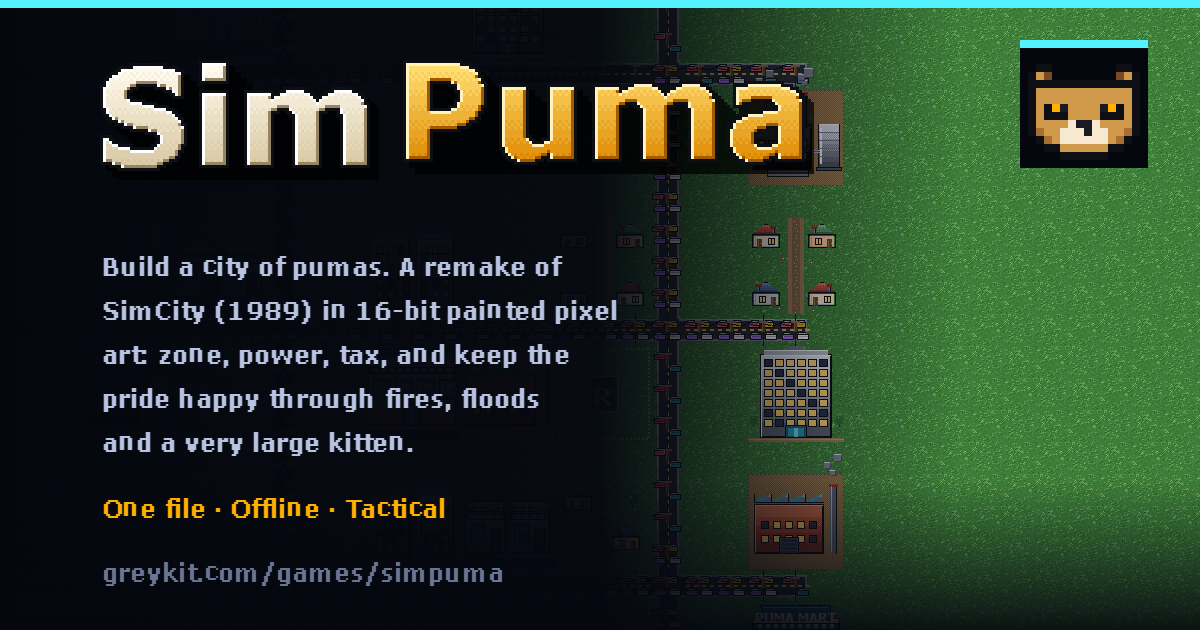
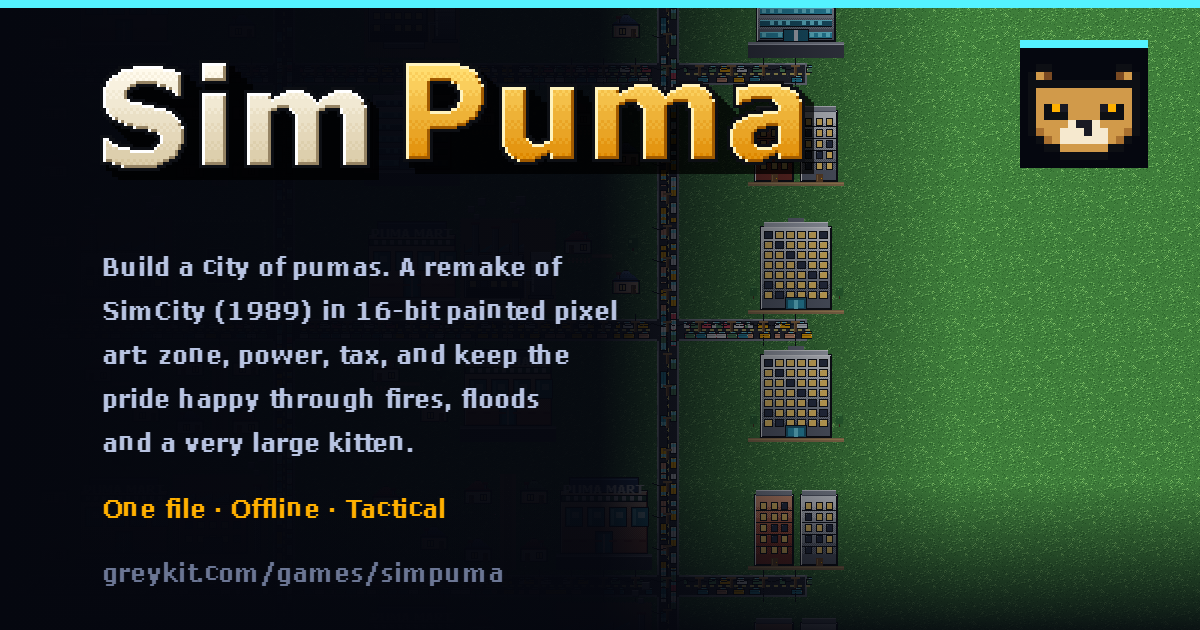
Traffic moves, and jams
Cars drive the roads in both lanes, keeping to the right: sixteen
painted frames a lane and a load, picked by the road's direction and
how busy it is. Light traffic moves two pixels a frame, busy traffic
one, and a jam creeps bumper to bumper with its brake lights on and
stalls now and then. A zone adds less to the roads each month, so a
town shows a mix of light, busy and jammed streets rather than every
road at its limit.

diff --git a/index.html b/index.html
@@ -1755,11 +1755,50 @@ function car(g, x, y, col, flip) {
   R_(g, x, y + 2, 10, 4, col); R_(g, x + (flip ? 1 : 3), y, 6, 3, col); R_(g, x + (flip ? 2 : 4), y, 4, 2, PAL.gl2); P(g, x + (flip ? 2 : 4), y, PAL.gl3);
   R_(g, x, y + 3, 10, 1, "rgba(0,0,0,.25)"); R_(g, x + 1, y + 6, 2, 1, PAL.out); R_(g, x + 7, y + 6, 2, 1, PAL.out); P(g, x + (flip ? 0 : 9), y + 3, PAL.win2); O_(g, x - 1, y + 1, 12, 6, PAL.out); R_(g, x + (flip ? 0 : 2), y - 1, 8, 1, PAL.out);
 }
-function paintTraffic(level) {
-  const [c, g] = mk(TS, TS);
-  if (level === 1) { car(g, 3, 7, PAL.red, false); car(g, 18, 19, PAL.gl1, true); }
-  else { car(g, 1, 7, PAL.red, false); car(g, 15, 7, PAL.gold, false); car(g, 3, 19, PAL.violet, true); car(g, 18, 19, PAL.white, true); }
-  return c;
+function vcar(g, x, y, col, up) {
+  /* a car seen along the road: 7 wide, 10 long, its windscreen toward where it goes */
+  R_(g, x + 1, y, 5, 10, col); R_(g, x, y + (up ? 3 : 1), 7, 6, col);
+  R_(g, x + 1, y + (up ? 1 : 6), 5, 3, PAL.gl2); P(g, x + 1, y + (up ? 1 : 6), PAL.gl3);
+  R_(g, x + 3, y, 1, 10, "rgba(0,0,0,.2)"); R_(g, x, y + 2, 1, 2, PAL.out); R_(g, x + 6, y + 2, 1, 2, PAL.out); R_(g, x, y + 7, 1, 2, PAL.out); R_(g, x + 6, y + 7, 1, 2, PAL.out);
+  P(g, x + 1, y + (up ? 0 : 9), PAL.win2); P(g, x + 5, y + (up ? 0 : 9), PAL.win2);
+  O_(g, x, y - 1, 7, 12, PAL.out);
+}
+/* the traffic, animated: sixteen frames a lane, the cars two pixels further
+ * along each frame and wrapping within the tile; three loads (light, busy,
+ * jammed) and two directions. Cars keep to the right: eastbound in the south
+ * lane, westbound in the north, northbound on the east side, southbound on
+ * the west. A jam is bumper to bumper, with brake lights. */
+const TRAFFIC_COLS = [PAL.red, PAL.gl1, PAL.gold, PAL.white, PAL.violet, PAL.b3, PAL.roofG2, PAL.c3];
+function paintTrafficFrames() {
+  const out = [];
+  for (let level = 1; level <= 3; level++) {
+    out[level] = [];
+    for (const vertical of [false, true]) {
+      const frames = [];
+      const n = level === 1 ? 1 : level === 2 ? 2 : 3, pitch = level === 3 ? 11 : level === 2 ? 15 : 32;
+      for (let f = 0; f < 16; f++) {
+        const [c, g] = mk(TS, TS), shift = f * 2;
+        for (let lane = 0; lane < 2; lane++) {
+          /* lane 0 goes the positive way (east, or south); lane 1 the other */
+          const forward = lane === 0;
+          for (let k = 0; k < n; k++) {
+            const col = TRAFFIC_COLS[(k * 3 + lane * 5 + level) % TRAFFIC_COLS.length];
+            let pos = (k * pitch + lane * 7 + (forward ? shift : 32 - shift)) % 32;
+            if (pos < 0) pos += 32;
+            const draw = at => {
+              if (vertical) { const x = forward ? 8 : 18; vcar(g, x, at, col, !forward); if (level === 3) { R_(g, x + 1, at + (forward ? 0 : 9), 1, 1, PAL.red); R_(g, x + 5, at + (forward ? 0 : 9), 1, 1, PAL.red); } }
+              else { const y = forward ? 18 : 8; car(g, at, y, col, !forward); if (level === 3) { P(g, at + (forward ? 0 : 9), y + 2, PAL.red); P(g, at + (forward ? 0 : 9), y + 5, PAL.red); } }
+            };
+            draw(pos);
+            if (pos > 22) draw(pos - 32);
+          }
+        }
+        frames.push(c);
+      }
+      out[level][vertical ? 1 : 0] = frames;
+    }
+  }
+  return out;
 }
 function paintWater(f) {
   const [c, g] = mk(TS, TS);
@@ -1932,7 +1971,7 @@ function buildArt() {
   ART.rubble = [0, 1].map(paintRubble);
   ART.road = []; ART.bridge = []; ART.wire = []; ART.wireOver = [];
   for (let m = 0; m < 16; m++) { ART.road[m] = paintRoad(m, false); ART.bridge[m] = paintRoad(m, true); ART.wire[m] = paintWire(m, false); ART.wireOver[m] = paintWire(m, true); }
-  ART.traffic = [null, paintTraffic(1), paintTraffic(2)];
+  ART.traffic = paintTrafficFrames();
   ART.park = paintPark(); ART.flood = [0, 1].map(paintFlood); ART.rad = paintRad(); ART.fire = [0, 1, 2].map(paintFire);
   ART.zone = { R: paintZoneEmpty("R"), C: paintZoneEmpty("C"), I: paintZoneEmpty("I") };
   ART.bld = { R: [null, 1, 2, 3, 4].map(l => l && paintR(l)), C: [null, 1, 2, 3, 4].map(l => l && paintC(l)), I: [null, 1, 2, 3, 4].map(l => l && paintI(l)) };
@@ -2196,7 +2235,7 @@ function trafficMonth(S) {
     if (!b || !KINDS[b.k].zone || !b.lv) continue;
     let i = roadNear(S, b);
     if (i < 0) continue;
-    const steps = 4 + b.lv * 4, add = 20 + b.lv * 18;
+    const steps = 4 + b.lv * 4, add = 8 + b.lv * 7;
     let prev = -1;
     for (let s = 0; s < steps; s++) {
       TR[i] = Math.min(255, TR[i] + add);
@@ -2536,7 +2575,13 @@ function drawView(V, opts = {}) {
       case T_ROAD: {
         const m = mask4(S, x, y, n => T[n] === T_ROAD);
         if (F[i] & 4) { blit(g, ART.water[((af >> 2) + x) & 3], px, py); blit(g, ART.bridge[m & 5 ? (m & 5) : (m & 10)], px, py); } else blit(g, ART.road[m], px, py);
-        if (TR[i] > 150) blit(g, ART.traffic[2], px, py); else if (TR[i] > 60) blit(g, ART.traffic[1], px, py);
+        if (TR[i] > 40) {
+          /* cars along the road's own direction; a crossing shows the busier axis. Light traffic
+             moves two pixels a frame, busy one, a jam creeps and stalls */
+          const level = TR[i] > 190 ? 3 : TR[i] > 110 ? 2 : 1, vertical = (m & 5) && !(m & 10) ? 1 : (m & 10) && !(m & 5) ? 0 : ((x + y) & 1);
+          const step = level === 1 ? af : level === 2 ? (af >> 1) : (af >> 2) - ((af >> 4) & 1);
+          blit(g, ART.traffic[level][vertical][((step + x * 5 + y * 3) % 16 + 16) % 16], px, py);
+        }
         if (F[i] & F_WIRE) blit(g, ART.wireOver[mask4(S, x, y, n => isWire(S, n))], px, py);
         break;
       }
